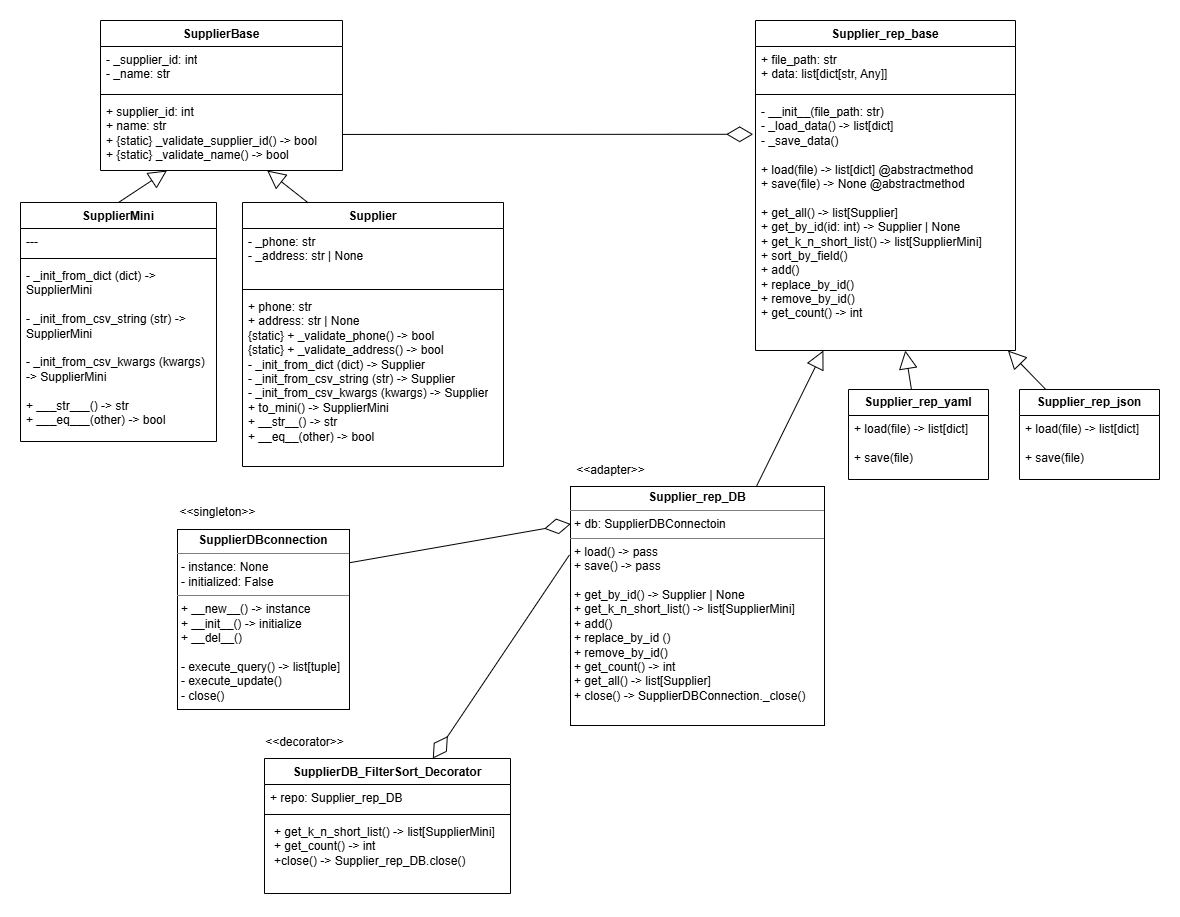
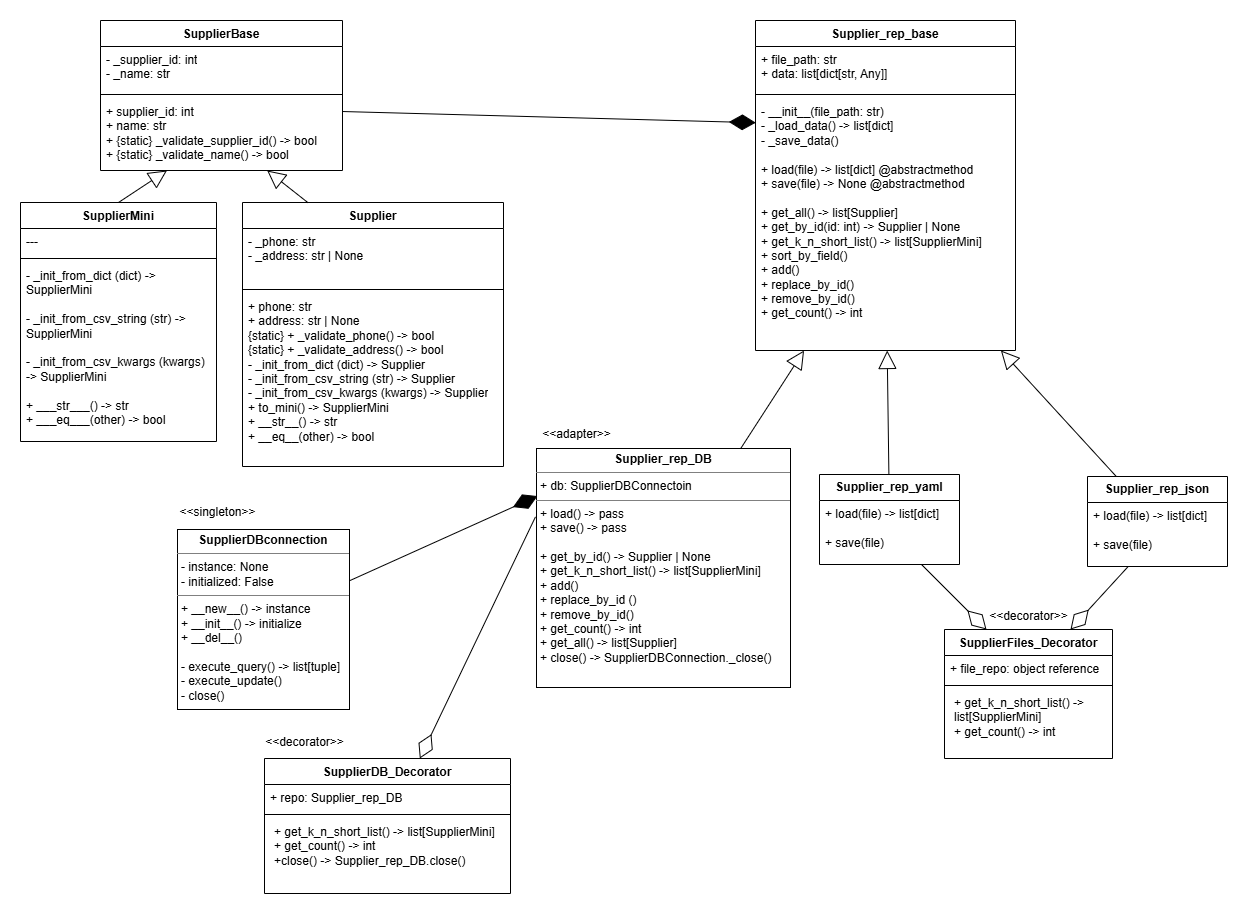
п 2.8 добавлен класс SupplierFile_Decorator

diff --git a/modules/Decorators.py b/modules/Decorators.py
@@ -2,7 +2,7 @@ from modules.supplier_mini import SupplierMini
 from modules.supplier_rep_DB import Supplier_rep_DB
 
 
-class SupplierDB_FilterSort_Decorator:
+class SupplierDB_Decorator:
     def __init__(self, repo):
         self.repo: Supplier_rep_DB = repo
 
@@ -72,3 +72,54 @@ class SupplierDB_FilterSort_Decorator:
     
     def close(self):
         self.repo.close()
+        
+
+
+class SupplierFiles_Decorator:
+    def __init__(self, file_repo):
+        """
+        file_repo — это экземпляр Supplier_rep_json или Supplier_rep_yaml
+        """
+        self.file_repo = file_repo
+
+    def get_k_n_short_list(
+        self,
+        k: int,
+        n: int,
+        filter_field: str | None = None,
+        filter_value: str | None = None,
+        sort_field: str = 'supplier_id'
+            ) -> list[SupplierMini]:
+        
+        all_items = self.file_repo.get_all()
+
+        if filter_field and filter_value:
+            filtered = [item for item in all_items if getattr(item, filter_field, '') == filter_value]
+        else:
+            filtered = all_items
+
+        sorted_items = sorted(filtered, key=lambda x: getattr(x, sort_field, ''))
+
+        # Выбираю k-ю страницу
+        start = (k - 1) * n
+        end = start + n
+        items = sorted_items[start:end]
+
+        return [SupplierMini(item.supplier_id, item.name) for item in items]
+
+
+    def get_count(
+        self,
+        filter_field: str | None = None,
+        filter_value: str | None = None
+    ) -> int:
+        
+        all_items = self.file_repo.get_all()
+
+        
+        if filter_field and filter_value:
+            filtered = [item for item in all_items if getattr(item, filter_field, '') == filter_value]
+        else:
+            filtered = all_items
+
+        return len(filtered)
